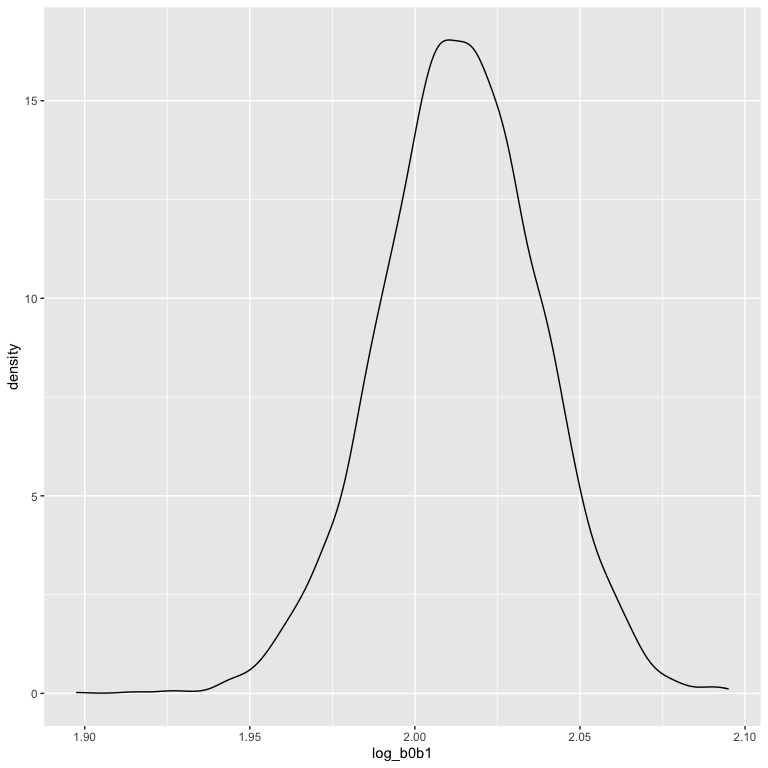
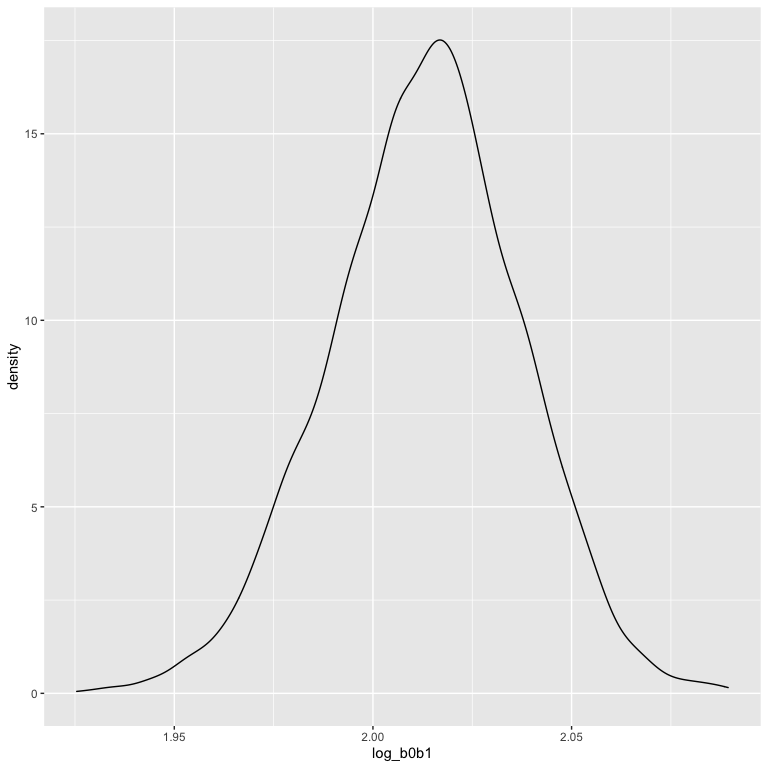
debug

diff --git a/p8105_hw6_tw2838.md b/p8105_hw6_tw2838.md
@@ -68,7 +68,7 @@ weather_r2_df %>%
 
 | ci_r2_lower | ci_r2_upper |
 |------------:|------------:|
-|       0.893 |       0.928 |
+|       0.894 |       0.927 |
 
 ### Distribution of $\log(\beta_0 * \beta1)$ and its 95% CI
 
@@ -109,7 +109,7 @@ weather_logb0b1_df %>%
 
 | ci_logb0b1_lower | ci_logb0b1_upper |
 |-----------------:|-----------------:|
-|            1.965 |             2.06 |
+|            1.964 |            2.057 |
 
 As with $r^2$, this distribution is somewhat skewed and has some
 outliers.
@@ -185,7 +185,13 @@ fit_logistic =
   select(term, OR, CI_95_low, CI_95_up) %>% 
   filter(term == "victim_sexMale") %>% 
   knitr::kable(digits = 3)
+
+fit_logistic
 ```
+
+| term           |    OR | CI_95_low | CI_95_up |
+|:---------------|------:|----------:|---------:|
+| victim_sexMale | 0.426 |     0.325 |    0.558 |
 
 ### *Fit Logistic Regression via `glm` in all cities*
 
@@ -284,7 +290,7 @@ plot_1
 
 <img src="p8105_hw6_tw2838_files/figure-gfm/unnamed-chunk-7-1.png" width="90%" />
 
-## Problem 3 - Child Birthweight
+## Problem 3 - Child Birth Weight
 
 ### *Data Import and Cleanning*
 
